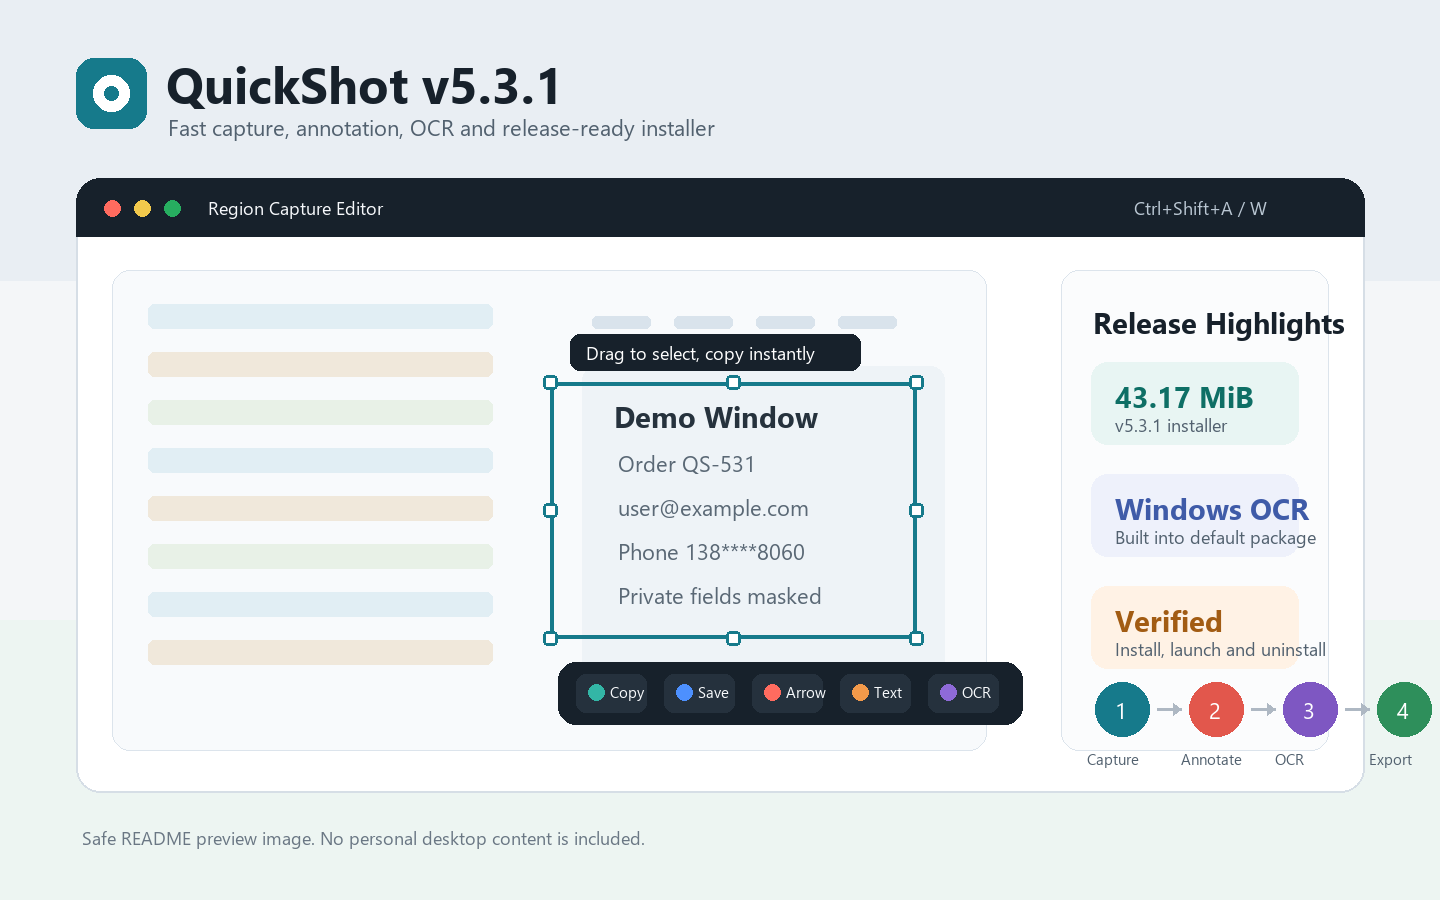
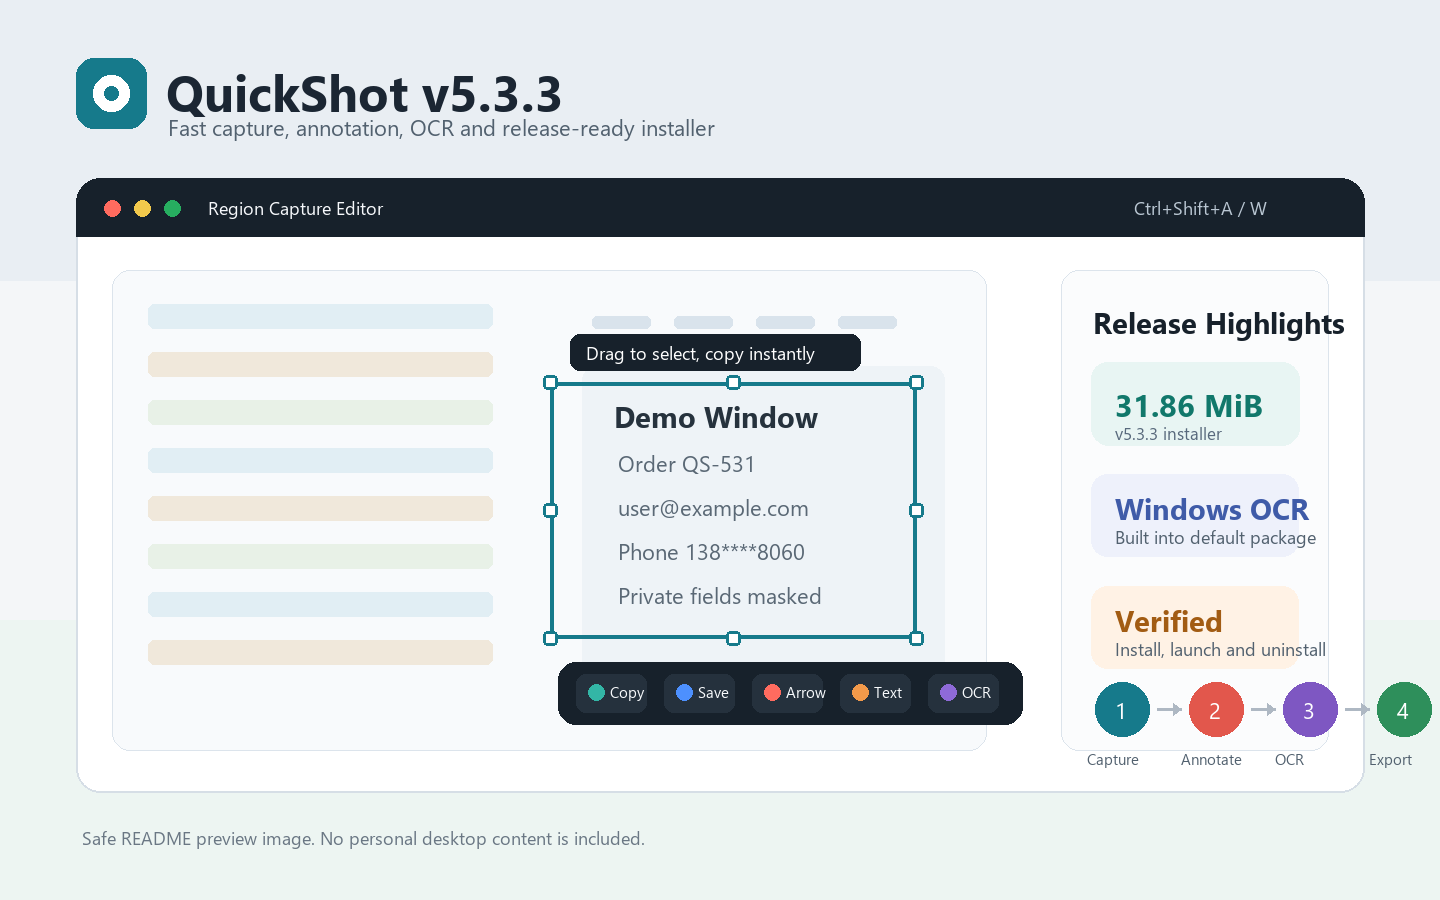
docs: polish public repository landing

Changed region(s): [[0.0938, 0.0622, 0.4062, 0.1244], [0.75, 0.4044, 0.875, 0.4978]]

diff --git a/SECURITY.md b/SECURITY.md
@@ -1,0 +1,49 @@
+# Security Policy
+
+## Supported Versions
+
+Only the latest published QuickShot release is actively verified for security and installer behavior.
+
+| Version | Supported |
+| --- | --- |
+| 5.3.3 | Yes |
+| Older releases | No |
+
+## Installer Trust
+
+Current QuickShot releases are unsigned because no code-signing certificate is configured. Windows may show a security warning for the installer.
+
+Before installing, download from the official GitHub Release page and verify the SHA256 hash:
+
+```powershell
+Get-FileHash .\QuickShot-5.3.3-Setup.exe -Algorithm SHA256
+```
+
+Expected SHA256 for v5.3.3:
+
+```text
[1 lines of base64/hex data omitted]
+```
+
+The release manifest is published next to the installer:
+
+<https://github.com/599495053/quickshot/releases/latest>
+
+## Reporting a Vulnerability
+
+Please do not post sensitive vulnerability details, private screenshots, tokens, or personal data in a public issue.
+
+Preferred reporting flow:
+
+1. Use GitHub private vulnerability reporting if it is enabled for this repository.
+2. If private reporting is unavailable, open a public issue with a minimal description and write that details can be shared privately.
+
+Helpful information to include:
+
+- QuickShot version.
+- Windows version.
+- Whether the issue affects the installer, screenshot capture, OCR, upload, history, or credential storage.
+- Whether the issue requires local access or can be triggered remotely.
+- A redacted proof of concept or reproduction outline.
+
+Security fixes will be prioritized for the latest release branch.

diff --git a/CHANGELOG.md b/CHANGELOG.md
@@ -4,13 +4,20 @@ All notable changes to QuickShot are tracked here.
 
 ## Unreleased
 
+### Added
+
+- Added public repository badges, installer verification guidance, feedback links, MIT license text, security policy, and GitHub issue templates.
+
 ### Changed
 
+- Refreshed the README workflow preview image for v5.3.3.
 - Updated CI to `actions/checkout@v6`, `actions/setup-python@v6`, and the pinned `windows-2025-vs2026` runner.
 
 ### Verified
 
 - Workflow YAML parse check.
+- GitHub issue template YAML parse check.
+- Markdown local link and image reference check.
 - `powershell -ExecutionPolicy Bypass -File .\scripts\set-version.ps1 -Version 5.3.3 -CheckOnly`
 - `python -m pyflakes quickshot launcher.py build_config.py tests\test_build_config.py tests\test_selftest.py`
 - `python -m compileall -q quickshot launcher.py build_config.py tests\test_build_config.py tests\test_selftest.py`
